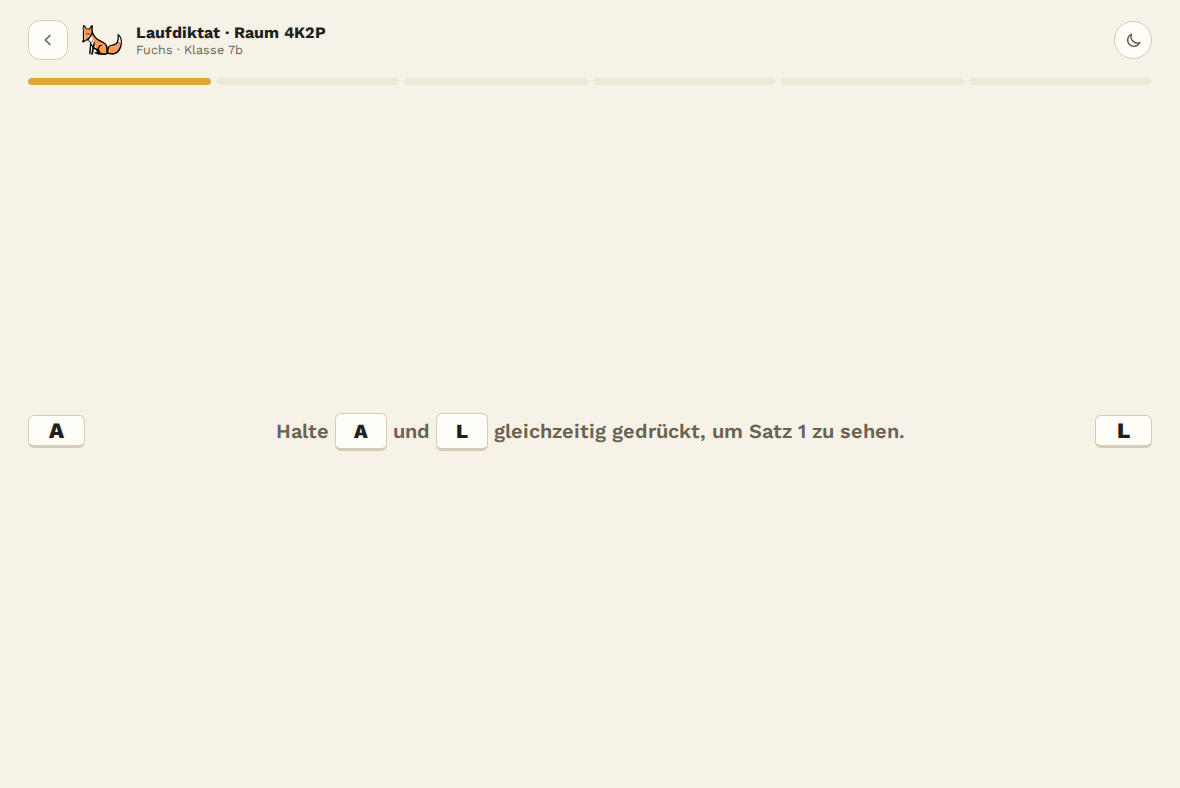
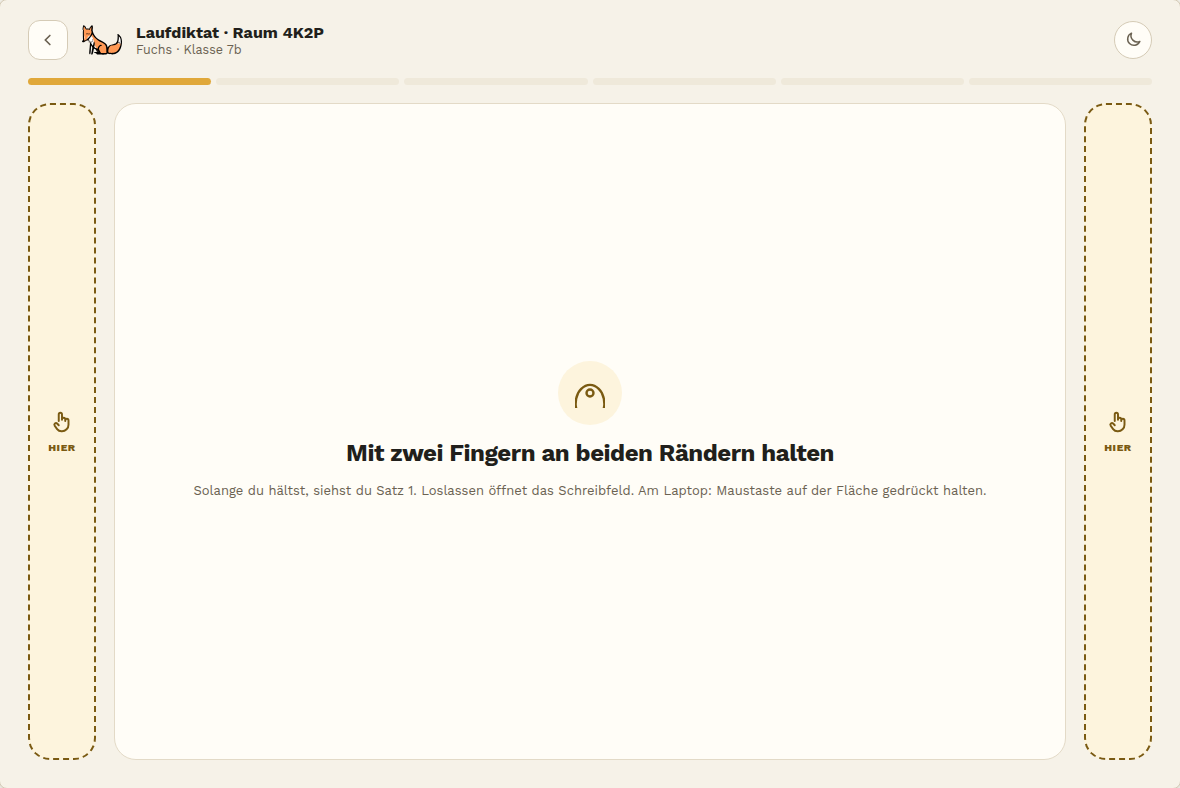
Designvergleich: Hydrierung abwarten, Touch-Zustand festlegen
Der Test wartet auf networkidle, auf die React-Hydrierung des Ansichtsrahmens
und auf zwei Frames. Neue Option touch in screens.json startet den Test mit
hasTouch/isMobile; gesetzt für 5a-hold und 5b-hold, deren Darstellung von
(hover: hover) and (pointer: fine) abhängt. 5b-hold-Referenz auf den
Touch-Stand zurückgesetzt. Toleranz unverändert.

Claude-Session: https://claude.ai/code/session_01Ec7MEyDqag82s1JgYNn9gr

diff --git a/e2e/design/design-fidelity.spec.ts b/e2e/design/design-fidelity.spec.ts
@@ -14,6 +14,12 @@ import { expect, test } from "@playwright/test";
  * Eine Playwright-`mask` genügt dort nicht: Die Schaltfläche verschiebt die
  * Fehlerliste darunter. Referenzbilder und Toleranz bleiben unverändert.
  *
+ * Optional `touch`: Der Test läuft in einem Kontext mit hasTouch/isMobile, damit
+ * Medienabfragen wie `(hover: hover) and (pointer: fine)` den Touch-Zustand
+ * wählen (z. B. 5a-hold/5b-hold: „Mit zwei Fingern halten“ statt „Halte A und
+ * L“). Desktop Chrome hat sonst Maus und Tastatur, das Ergebnis wäre vom
+ * Lauf abhängig.
+ *
  * Optional `ready`: Selektor (innerhalb der Ansicht), auf den vor dem Vergleich
  * gewartet wird. Für Zustände, die erst nach dem Laden des Skripts entstehen,
  * z. B. ein modaler Dialog (`dialog[open]`): Die vorab gerenderte Seite ist
@@ -47,12 +53,15 @@ const manifest = JSON.parse(
     height: number;
     status: string;
     hide?: string[];
+    touch?: boolean;
     ready?: string;
   }>;
 };
 
+const touchTest = test.extend({ hasTouch: true, isMobile: true });
+
 for (const screen of manifest.screens) {
-  test(`Design ${screen.id}`, async ({ page }) => {
+  (screen.touch ? touchTest : test)(`Design ${screen.id}`, async ({ page }) => {
     test.skip(
       screen.status !== "umgesetzt",
       "Ansicht noch nicht umgesetzt (offen) oder nur Referenz",
@@ -62,6 +71,13 @@ for (const screen of manifest.screens) {
     // Zustände, die erst nach der Hydrierung entstehen (z. B. das zufällige Tier
     // in 9b/9c), sollen nicht je nach Lauf früher oder später erfasst werden.
     await page.waitForLoadState("networkidle");
+    await page.waitForFunction((id) => {
+      const node = document.querySelector(`[data-screen="${id}"]`);
+      return (
+        node !== null &&
+        Object.keys(node).some((key) => key.startsWith("__reactFiber"))
+      );
+    }, screen.id);
     await page.addStyleTag({ content: CONTROL_FONT_CSS });
     const frame = page.locator(`[data-screen="${screen.id}"]`);
     await expect(frame).toBeVisible();
@@ -79,6 +95,13 @@ for (const screen of manifest.screens) {
       });
     }
     await page.evaluate(() => document.fonts.ready);
+    // Zwei Frames abwarten, damit Effekte nach der Hydrierung gelaufen sind.
+    await page.evaluate(
+      () =>
+        new Promise((resolve) =>
+          requestAnimationFrame(() => requestAnimationFrame(resolve)),
+        ),
+    );
     await expect(frame).toHaveScreenshot(`${screen.id}.png`, {
       maxDiffPixelRatio: MAX_DIFF_RATIO,
     });

diff --git a/docs/design/README.md b/docs/design/README.md
@@ -7,7 +7,7 @@ Verbindliche Gestaltungsgrundlage seit Entscheidung 47 (Vault, 29.09.2026). Seit
   - `umgesetzt`: Es gibt unter `/entwicklung/screens/<id>` eine Ansicht, die der Designvergleich prüft.
   - `referenz`: Der Entwurf dient als Vorlage für Ideen, wird aber nicht 1:1 gebaut, weil eine neuere Fassung ihn ersetzt (1a–1c, 1d, 2c). Er erscheint im Katalog als offen und wird nicht verglichen.
   - `offen`: noch nicht umgesetzt.
-  - Optional `hide` (Selektoren, die vor dem Vergleich ausgeblendet werden) und `ready` (Selektor, auf den vor dem Vergleich gewartet wird, z. B. `dialog[open]` für modale Dialoge, die erst nach dem Laden des Skripts erscheinen).
+  - Optional `hide` (Selektoren, die vor dem Vergleich ausgeblendet werden) `touch` (der Test läuft mit hasTouch/isMobile, damit die Touch-Darstellung gewählt wird, z. B. 5a-hold/5b-hold) und `ready` (Selektor, auf den vor dem Vergleich gewartet wird, z. B. `dialog[open]` für modale Dialoge, die erst nach dem Laden des Skripts erscheinen).
 - Ergänzungen ohne Vorlage (Start-Overlay, Dialog „Klassen zuordnen“) stehen nur im Katalog, in `app/entwicklung/screens/manifest.ts` (`3c-start`, `3d-start`, `3c-assign`). Sie haben kein Referenzbild und werden nicht verglichen.
 - `referenz/<id>.png`: die Innenfläche jeder Design-Karte. Für noch nicht umgesetzte Ansichten wird sie aus der Vorlage gerendert, mit Chromium und den lokal ausgelieferten Schriften Work Sans und Fredoka. Neu erzeugen mit `npm run design:references` (ohne Netz: `DESIGN_UMD_DIR`, siehe Skript).
 
